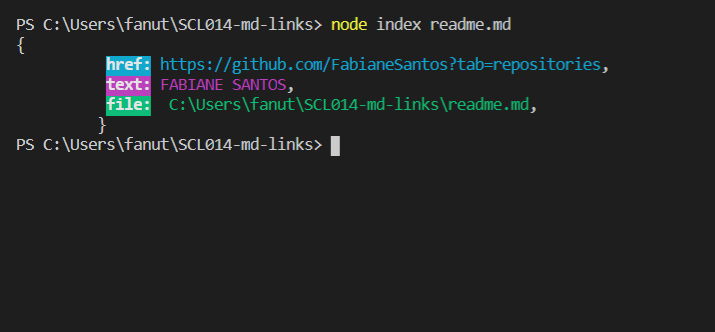
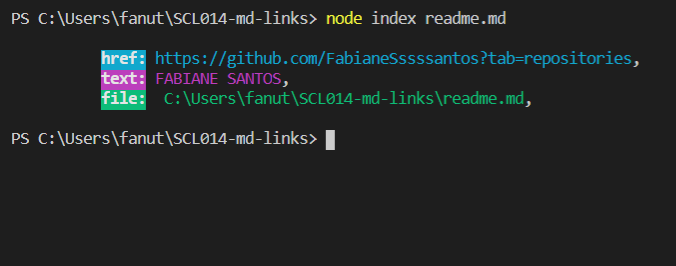
cambios en el readme

Changed region(s): [[0.0, 0.1504, 0.963, 0.5714], [0.0, 0.0301, 0.7456, 0.0902], [0.0, 0.1203, 0.0311, 0.1504]]

diff --git a/stats.js b/stats.js
@@ -23,9 +23,9 @@ const stats = (links) => {
   linksBroken = linksBroken.length;
 
   console.log(`
-  ${chalk.bgCyan.bold("Total:")} ${chalk.cyan(linksTotal)},
-  ${chalk.bgMagenta.bold("Unique:")} ${chalk.magenta(linksUnique)},
-  ${chalk.bgGreen.bold("Broken:")} ${chalk.green(linksBroken)},
+          ${chalk.bgCyan.bold("Total:")} ${chalk.cyan(linksTotal)},
+          ${chalk.bgMagenta.bold("Unique:")} ${chalk.magenta(linksUnique)},
+          ${chalk.bgGreen.bold("Broken:")} ${chalk.green(linksBroken)},
   
   `);
 

diff --git a/README.md b/README.md
@@ -1,12 +1,10 @@
-# fs-md-links
-
-### validador de links en archivos con extensión markdown.
+# ![fs-md-links](img/logo-md-links.png)
 
 #
 
 Herramienta desarrollada para encontrar y analizar archivos de extensión markdown (**.md**).
 
-Para instalar la herramienta en su proyecto es muy sencillo, copie y pegue el comando:
+Para instalar la herramienta en su proyecto es muy sencillo, en la terminal, copie y pegue el comando:
 
 #### npm i fs-md-links
 
@@ -14,49 +12,67 @@ Para instalar la herramienta en su proyecto es muy sencillo, copie y pegue el co
 
 Es necesario una ruta de un archivo markdown para empezar!
 
-![necesita un archivo para empezar](./img/node1.png)
+![necesita un archivo para empezar](img/node1.png)
 
 #
 
 Archivo mardown encontrado! Devuelve el _enlace_, el _texto_ y la _ruta_ del archivo markdown.
 
-![ruta markdown](./img/node2.png)
+![](img/node2.png)
 
 #
 
 Solo se analiza archivos de extensión markdown!
 
-![ruta archivo invalido](./img/node3.png)
+![ruta archivo invalido](img/node3.png)
 
 #
 
-Al ingresar el argumento _--validate_, devuelve además el status del link!
+- ##### --validate
 
-![argumento --validate](./img/node4.png)
+#
+
+Al ingresar el argumento _--validate_, devuelve también el status del link!
+
+![argumento --validate](img/node4.png)
+
+#
+
+- ##### --stats
 
 #
 
 Para obtener estadísticas, se utiliza el argumento --stats, que devuelve el total de links encontrados, cuantos del total son unicos, y cuantos links del total están rotos.
 
-![argumento --validate](./img/node6.png)
-
-#
+![argumento --validate](img/node6.png)
 
 En este ejemplo hay un total de 4 links, donde 3 links no se repiten, y 1 está roto.
-![argumento --validate](./img/exemplo1.png)
+![argumento --validate](img/exemplo1.png)
 
-![argumento --validate](./img/ex1.png)
+![argumento --validate](img/ex1.png)
 
 #
 
-En este ejemplo hay 1 link, donde el link es unico y no está roto, o sea, el link funciona perfectamente.
+En este ejemplo hay 1 link, donde el link es ú-nico y no está roto, o sea, el link funciona perfectamente.
 
-![argumento --validate](./img/exemplo2.png)
+![argumento --validate](img/exemplo2.png)
 
-![argumento --validate](./img/ex2.png)
+![argumento --validate](img/ex2.png)
+
+#
+
+- ##### --validate --stats( con link válido)
+
+![](img/node7.png)
+
+#
+
+- ##### --stats --validate(con link roto)
+
+![](img/node8.png)
 
 #
 
 ## Autora:
 
-#### [Fabiane Santos](https://github.com/FabianeSantos?tab=repositories)
+#### [Fabiane Santos](https://github.com/FabianeSssssantos?tab=repositories)
